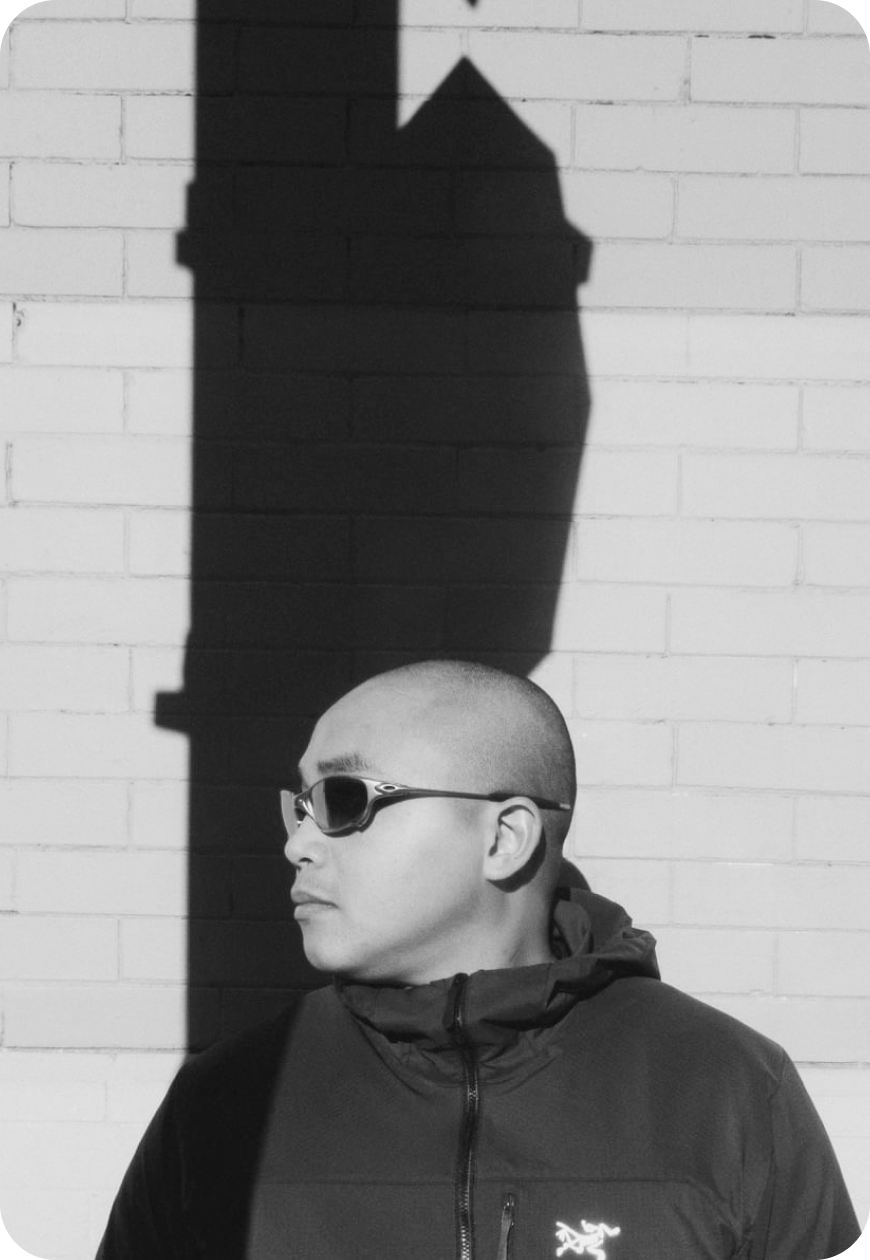
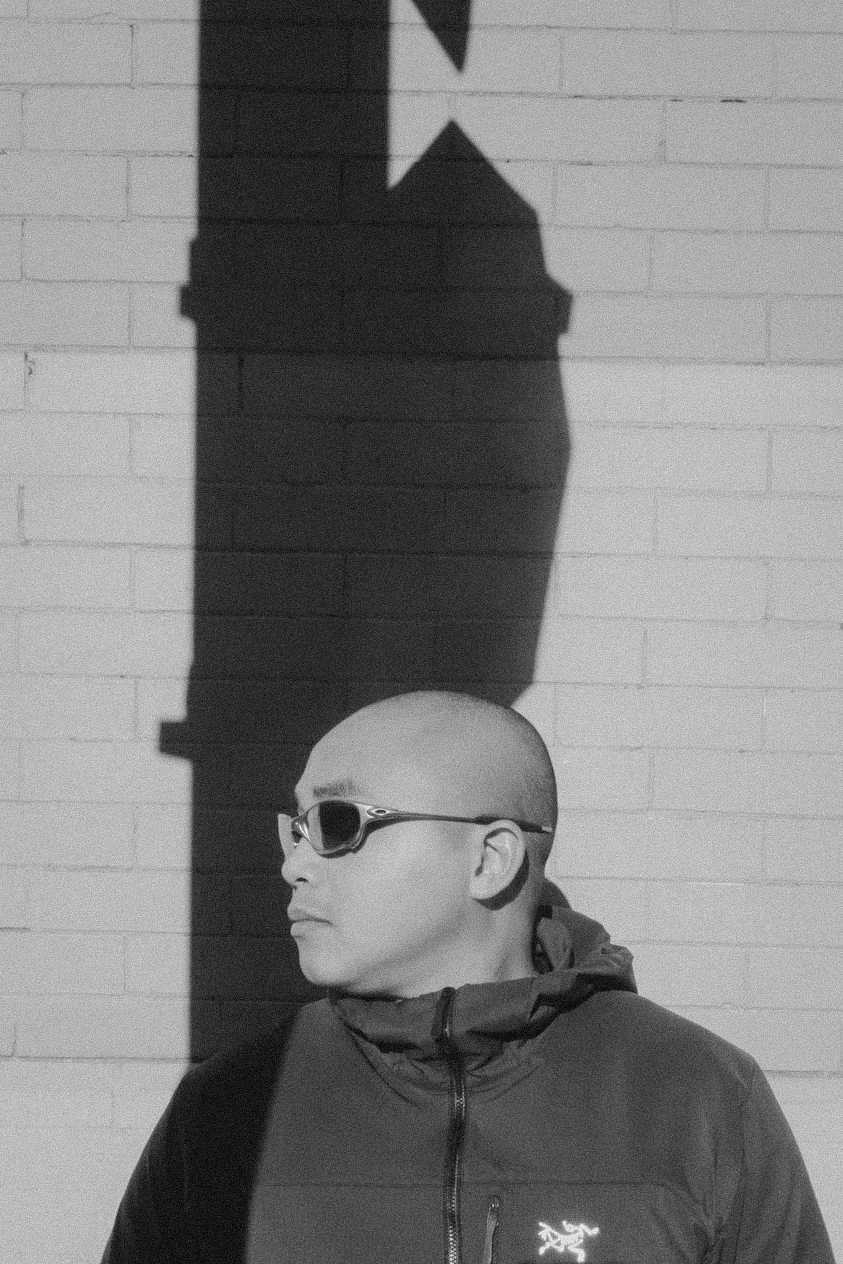
edited styles added sections

diff --git a/index.html b/index.html
@@ -27,7 +27,7 @@
                         <li><a class="nav-link" href="#section2">Case Studies</a></li>
                         <li><a class="nav-link" href="#section3">About</a></li>
                         <li><a class="nav-link" href="#">Resume</a></li>
-                        <li><a class="hero-nav-link" href="#sectionHire">Hire Me</a></li>
+                        <li><a class="hero-nav-link" href="https://www.linkedin.com/in/takierosales" target="_blank">Hire Me</a></li>
                     </ul>
                     <div class="hamburger">
                         <span class="bar"></span>
@@ -57,18 +57,51 @@
             </div>
         </section>
 
-        <section class="banner-wrapper" id="section2">
-            <div class="banner-container">
-                <div class="banner-block">
-                    <p class="highlight">Another Section Title</p>
-                    <h1>Case Studies.
-                    </h1>
-                    <p>I’m a UI/UX designer and developer based in Toronto focused on creating user-centered <br> and
-                        interactive digital experiences for partners around the globe.</p>
-                    <div class="cta-set-wrapper">
-                        <a class="hero-cta" href="#">Let's Work Together</a>
-                    </div>
+        <section class="projects-wrapper" id="section2">
+            <p class="section-title" id="projects-section-title">Selected Case Studies</p>
+            <div class="projects-grid-container">
+                <div class="project-card">
+                    <img src="./images/RateMyWebsite_thumbs_hero.webp" alt="">
+                    <p class="project-type">App Design / UI Design / UX Design</p>
+                    <h3>Wanderpath</h3>
                 </div>
+                <div class="project-card">
+                    <img src="./images/Nextus_thumbs_hero.webp" alt="">
+                    <p class="project-type">App Design / UI Design / UX Design</p>
+                    <h3>Nextus</h3>
+                </div>
+                <div class="project-card">
+                    <img src="./images/Automoviles_thumbs_hero.jpg" alt="">
+                    <p class="project-type">Illustration</p>
+                    <h3>Automobiles</h3>
+                </div>
+                <div class="project-card">
+                    <img src="./images/RateMyWebsite_thumbs_hero.webp" alt="">
+                    <p class="project-type">App Design / UI Design / UX Design</p>
+                    <h3>Rate My Website</h3>
+                </div>
+                <div class="project-card">
+                    <img src="./images/RateMyWebsite_thumbs_hero.webp" alt="">
+                    <p class="project-type">App Design / UI Design / UX Design</p>
+                    <h3>Wanderpath</h3>
+                </div>
+                <div class="project-card">
+                    <img src="./images/Nextus_thumbs_hero.webp" alt="">
+                    <p class="project-type">App Design / UI Design / UX Design</p>
+                    <h3>Nextus</h3>
+                </div>
+                <div class="project-card">
+                    <img src="./images/Automoviles_thumbs_hero.jpg" alt="">
+                    <p class="project-type">Illustration</p>
+                    <h3>Automobiles</h3>
+                </div>
+                <div class="project-card">
+                    <img src="./images/RateMyWebsite_thumbs_hero.webp" alt="">
+                    <p class="project-type">App Design / UI Design / UX Design</p>
+                    <h3>Rate My Website</h3>
+                </div>
+                
+
             </div>
         </section>
 
@@ -111,9 +144,8 @@
                 </div>
             </div>
             <div class="profile-photo">
-                <img src="./images/profile-photo.JPG" alt="Profile Photo">
+                <img src="./images/profile-photo.png" alt="Profile Photo">
             </div>
-
         </section>
 
         <section class="reviews-section-wrapper">

diff --git a/css/style.css b/css/style.css
@@ -195,7 +195,7 @@ header {
     flex-wrap: wrap; */
     justify-content: space-between;
     align-items: center;
-    height: 50vh;
+    height: 40vh;
     width: 90vw;
     margin: auto;
 }
@@ -240,6 +240,75 @@ header {
     gap: 22px;
     margin-top: 18px;
 }
+
+/* --Projects Sect-- */
+
+.projects-wrapper {
+    /* background-color: #d3d3d3; */
+    z-index: -2;
+    display: flex;
+    flex-direction: column;
+    justify-content: center;
+    padding: 0 0 40px 0;
+    gap: 44px;
+}
+
+#projects-section-title {
+    margin: auto;
+}
+
+.projects-grid-container {
+    /* background: #2b2b2b; */
+    display: flex;
+    justify-content: center;
+    align-items: flex-start;
+    align-content: flex-start;
+    align-self: stretch;
+    flex-wrap: wrap;
+    width: 85vw;
+    gap: 28px;
+    column-gap: 44px;
+    margin: auto;
+}
+
+.project-card {
+    display: flex;
+    flex-direction: column;
+    justify-content: space-around;
+    align-items: center;
+    align-content: flex-start;
+    gap: 10px;
+    align-self: stretch;
+    width: 310px;
+    flex-wrap: wrap;
+    margin-top: 24px;
+}
+
+.project-card img {
+    width: 100%;
+    height: auto;
+    border-radius: 22px;
+}
+
+.project-type {
+    border-radius: 8px;
+    color: var(--accent-color-2);
+    font-weight: var(--font-weight-regular);
+    font-size: .8em;
+    letter-spacing: -.2px;
+    /* background: #F3F2F3;
+    padding: 7px 16px 8px 16px; */
+    margin: 12px 0px 0px 0px;
+}
+
+.project-card h3 {
+    margin: 0;
+    font-size: 1.4em;
+    font-weight: var(--font-weight-regular);
+}
+
+
+
 
 /* --About Sect-- */
 
@@ -435,7 +504,7 @@ strong {
     display: flex;
     justify-content: space-between;
     align-items: flex-start;
-    width: 30vw;
+    width: 25vw;
 }
 
 .footer-links {
@@ -592,6 +661,7 @@ strong {
     .banner-container {
         /* background-color: #adadad; */
         padding: 70px 0;
+        height: 50vh;
     }
 
     /* --About Section Fixes-- */
